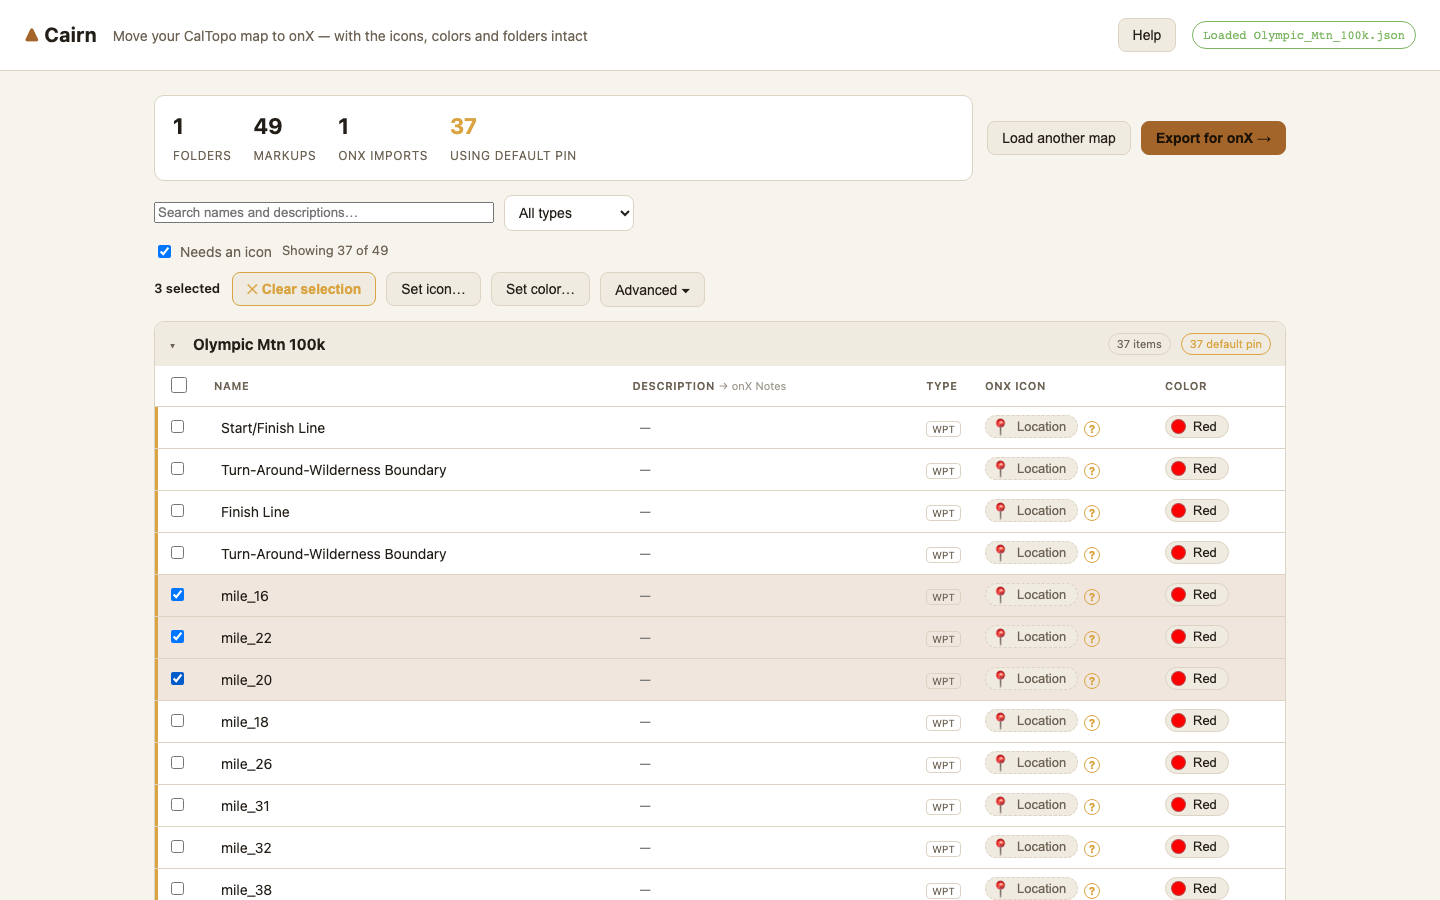
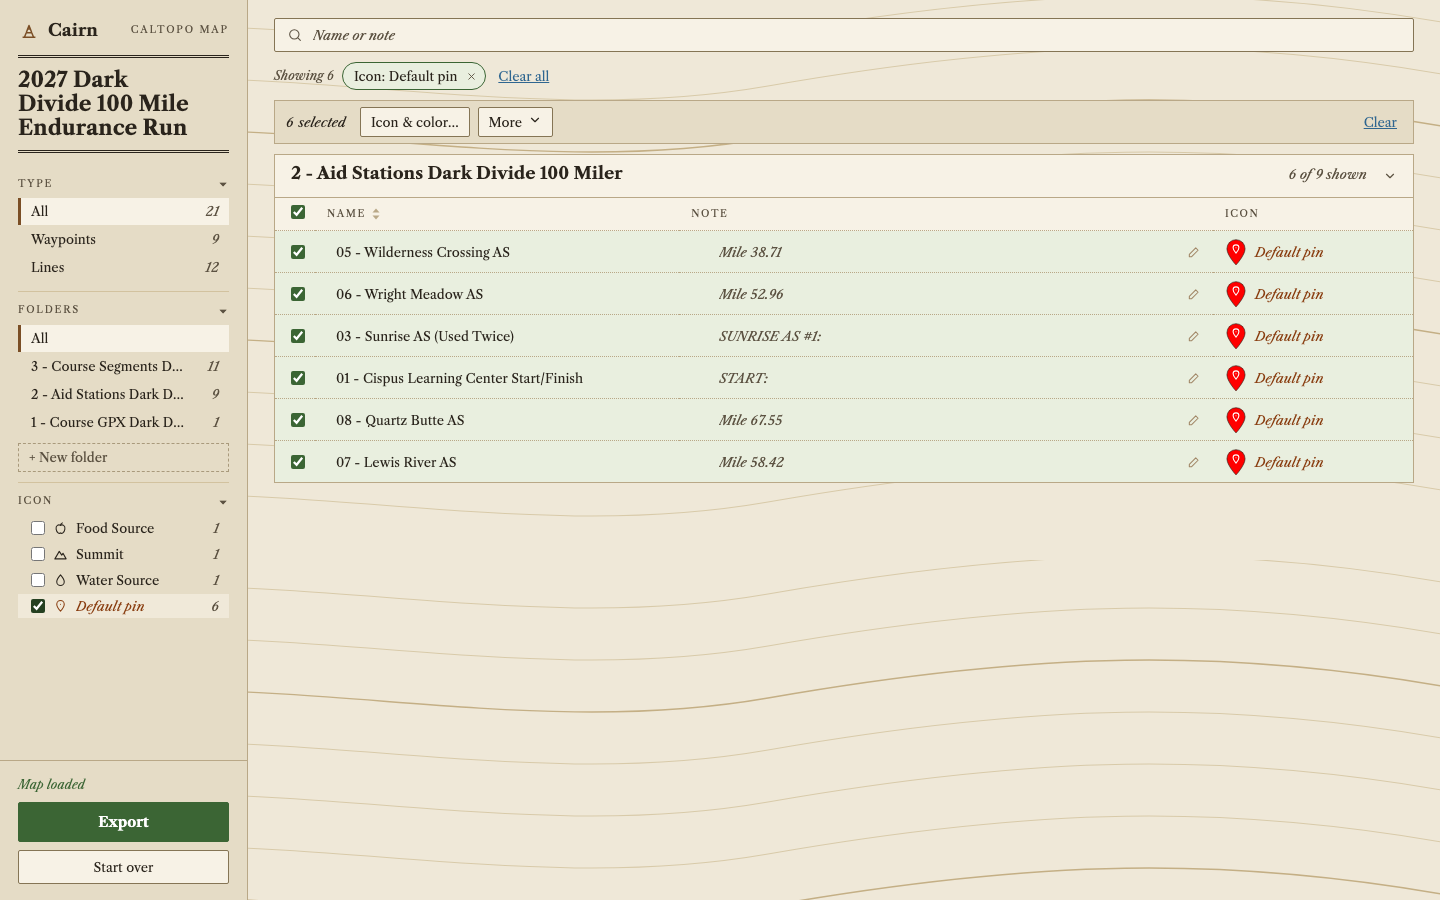
docs(readme): retake the screenshots on Dark Divide 100; describe folders
The seven README screenshots showed a UI two redesigns old (the stats card,
"Needs an icon", the runbook). Retaken from the current app at 1440x900 on
tests/fixtures/dark_divide_100 (21 markups, 6 default pins -> 0), and the
walkthrough text follows them. web-03 and web-07 are renamed
(default-pin-filter, export). The feature list gains folders; stale facts
fixed: 95 icons (not ~40), Default pin (not amber / "Needs an icon"), a
colourless waypoint gets its icon's colour (not onX's blue), and the link to
the deleted command-line section is gone.

Claude-Session: https://claude.ai/code/session_019BuYxNAfXvJtTFx663jVwh

diff --git a/README.md b/README.md
@@ -22,43 +22,44 @@ for how it's deployed.
 
 ### A walkthrough
 
-A real transformation, start to finish — a 100k trail race's aid stations, mile splits and
-course lines exported from CalTopo as GeoJSON (KML and GPX work too).
+A real map, start to finish: the Dark Divide 100 trail race's aid stations and course lines,
+exported from CalTopo as GeoJSON (KML and GPX work too).
 
-**1. Drop the file.** Nothing uploads anywhere; this all runs in your browser.
+**1. Drop the file.** Nothing uploads anywhere; it all runs in your browser.
 
-<img src="./docs/screenshots/web-01-drop.png" alt="Cairn's drop-zone screen, prompting for a CalTopo export" width="800">
+<img src="./docs/screenshots/web-01-drop.png" alt="Cairn's landing page, with a drop zone for a CalTopo or onX export" width="800">
 
-**2. Review what came in.** 49 markups across aid stations, mile markers and the course lines,
-each already given a best-guess onX icon and color.
+**2. Review what came in.** 21 markups in 3 folders: 9 aid stations and 12 course lines, each
+with a best-guess onX icon and color.
 
-<img src="./docs/screenshots/web-02-loaded.png" alt="The loaded Olympic Mtn 100k map, showing folders, waypoints, icons and colors" width="800">
+<img src="./docs/screenshots/web-02-loaded.png" alt="The loaded Dark Divide 100 map: folders and filters on the left, lines and aid stations with their icons on the right" width="800">
 
-**3. Filter to what needs a human decision.** 37 waypoints — mostly generic mile markers —
-fell back to onX's default pin because nothing in CalTopo matched. That's often fine (a mile
-split doesn't need its own icon), but it's a one-click way to see exactly what's still
-unresolved.
+**3. Filter to what needs a decision.** 6 aid stations fell back to onX's default pin because
+nothing in CalTopo matched. Tick **Default pin** in the Icon list to see just those.
 
-<img src="./docs/screenshots/web-03-needs-icon-filter.png" alt="The list filtered to 'Needs an icon', showing the 37 waypoints using onX's default pin" width="800">
+<img src="./docs/screenshots/web-03-default-pin-filter.png" alt="The list filtered to Default pin, showing 6 aid stations" width="800">
 
-**4. Select the ones worth fixing.** Here, three mile-marker waypoints.
+**4. Select them.** Here, all six.
 
-<img src="./docs/screenshots/web-04-selected-rows.png" alt="Three mile-marker waypoints selected via checkboxes" width="800">
+<img src="./docs/screenshots/web-04-selected-rows.png" alt="Six aid-station waypoints ticked" width="800">
 
-**5. Set an icon on all of them at once.** No editing one waypoint at a time.
+**5. Set one icon on all of them.** No editing one waypoint at a time.
 
-<img src="./docs/screenshots/web-05-bulk-icon-picker.png" alt="The bulk icon picker, open to set an icon on 3 selected items" width="800">
+<img src="./docs/screenshots/web-05-bulk-icon-picker.png" alt="The Change 6 items dialog, setting Food Source on every selected aid station" width="800">
 
-The attention count drops from 37 to 34 — exactly the 3 waypoints just fixed.
+The default-pin count drops from 6 to 0.
 
-<img src="./docs/screenshots/web-06-after-bulk-edit.png" alt="The map after the bulk edit, attention count reduced from 37 to 34" width="800">
+<img src="./docs/screenshots/web-06-after-bulk-edit.png" alt="The map after the bulk edit: the aid stations show Food Source and Default pin reads 0" width="800">
 
-**6. Export, and get import instructions, not just a pile of files.** onX creates one folder per
-import and names it with a timestamp — never from the filename — so Cairn gives you one box per
-folder with its files and a Download button, and the zip carries `instructions.txt`: plain text
-naming each folder to rename, its files, and every waypoint, line and area in each.
+You can also sort items into folders: drag rows onto a folder or onto **+ New folder**, rename a
+folder by clicking its name, or use **More → Move to…**.
 
-<img src="./docs/screenshots/web-07-runbook.png" alt="The generated import runbook, listing the files to import together and the folder name to use" width="800">
+**6. Export, and get import instructions with the files.** onX creates one folder per import and
+names it with a date and time, never from the file name. So Cairn gives you one box per folder,
+with its files and a Download button, plus **Download all**. The zip carries `instructions.txt`:
+plain text naming each folder to rename, its files, and every waypoint, line and area in each.
+
+<img src="./docs/screenshots/web-07-export.png" alt="The export screen: Download all, then one box per folder with its files and a Download button" width="800">
 
 ### Why?
 
@@ -79,10 +80,11 @@ I built Cairn to make migration between systems easier without losing the custom
 ### What Cairn does
 
 - 1:1 mapping: Cairn does not decide what you should import or filter anything out. It maps what you give it into what it exports.
-- Preview + batch updates: Cairn lets you preview and batch-update waypoint metadata before you generate the GPX you'll import. [[2]](#ref-2) [[3]](#ref-3)
+- Review and bulk edit: set icons, colors and line styles on many items at once, and fix names and notes, before you export. [[2]](#ref-2) [[3]](#ref-3)
+- Folders: move items between folders, and make, rename or merge folders. Each folder becomes one onX folder.
 - Works around import constraints: onX documents import constraints and common failure modes. Cairn aims to make those constraints easier to live with. [[1]](#ref-1) [[5]](#ref-5)
   - It automatically splits exports into GPX files under the documented size cap.
-  - It writes waypoints and tracks or routes into separate GPX files so they can be imported separately.
+  - It writes each folder's waypoints, tracks and areas to separate GPX files, imported together as one onX folder.
 
 ### Icon, Symbol and Color Mapping
 
@@ -101,17 +103,14 @@ Color is a key filtering property in onX's "My Content" feature. When importing 
 
 onX only allows specific colors and icon terms to be used.
 
-See the color reference table below for the allowed onX colors. If the data you want to import provides color information, Cairn will convert it to the closest onX color. If no color is provided then onX will use the default blue.
+See the color reference table below for the allowed onX colors. If the data you want to import has a color, Cairn converts it to the closest onX color. If it has none, Cairn uses the icon's usual color, or Blue.
 
-For icons and symbols, onX accepts a set of ~40 icons but CalTopo exports a much larger set. Even when the icons are visually identical the text labels used may not match and the icon doesn't transfer. When the icon does not match in onX the default <img src="./docs/screenshots/onx-logo.png" alt="Alt text" height=15px> will be used.
+For icons and symbols, onX accepts a set of 95 icons but CalTopo exports a much larger set. Even when the icons are visually identical the text labels used may not match and the icon doesn't transfer. When the icon does not match in onX the default <img src="./docs/screenshots/onx-logo.png" alt="Alt text" height=15px> will be used.
 
 Cairn maintains a default mapping of common CalTopo --> onX icons. When it can't map one, the web
-app marks that waypoint amber and falls back to onX's default pin — filter to **"Needs an icon"**
-to see just those, then set an icon on them (individually or in bulk) before you export. Nothing
-is silently dropped; it's just flagged for a quick human decision.
-
-*(Prefer to pre-map symbols permanently instead of fixing them per-export? See
-["Custom icon mappings"](#custom-icon-mappings-command-line) under Command line.)*
+app marks that waypoint **Default pin** and falls back to onX's default pin. Tick **Default pin**
+in the Icon list to see just those, then set an icon on them (one at a time or in bulk) before you
+export. Nothing is dropped; it's flagged for a quick human decision.
 
 #### Color reference
 
